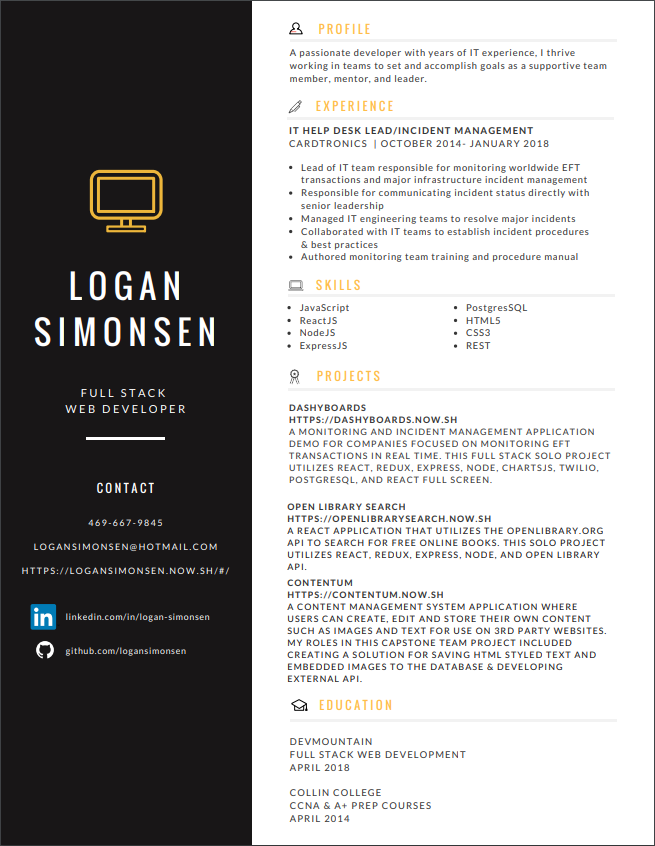
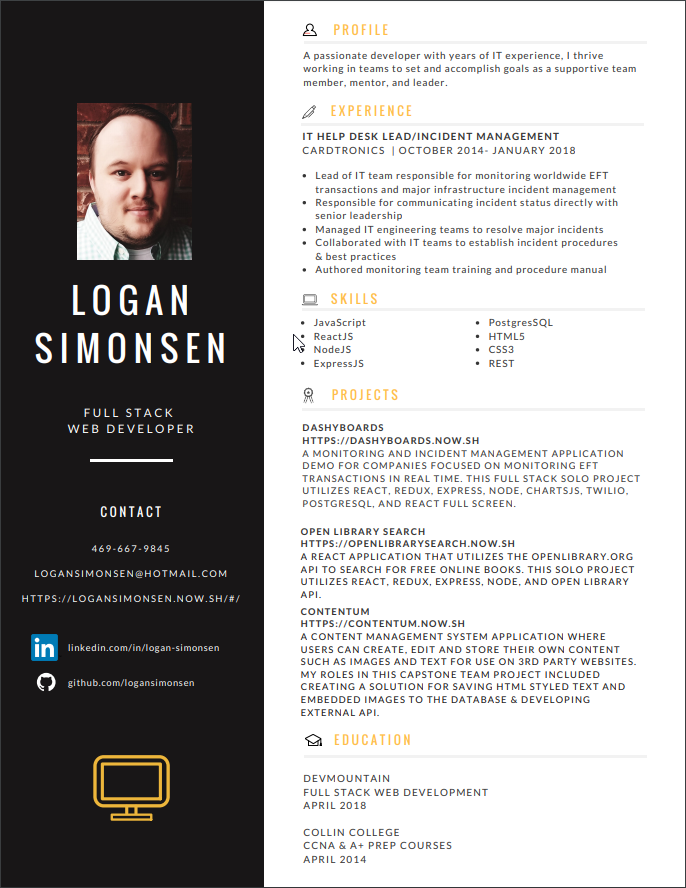
added headshot to resume

diff --git a/src/App.css b/src/App.css
@@ -57,7 +57,15 @@ a:hover {
   background: white;
   color: black;
   /* box-shadow: 2px 2px 2px 2px #222; */
-  font-size: 3em;
+  font-size: 2.7em;
+}
+.headShot {
+  position: fixed;
+  left: 5px;
+  down: 300px;
+  /* zoom: 0.3; */
+  height: 200px;
+  /* border-radius: 50%; */
 }
 .App-header:hover {
   height: 50vh;

diff --git a/src/App.js b/src/App.js
@@ -5,6 +5,7 @@ import "./App.css";
 import routes from "./routes";
 import { BrowserRouter as Router, Route, Link } from "react-router-dom";
 import image1 from "./screenCapPDF.png";
+import headShot from "./headShot.jpg";
 
 let count = 0;
 class App extends Component {
